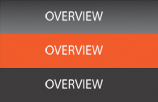
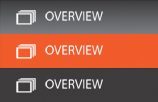
various style changes to below tabs

Changed region(s): [[0.1013, 0.0882, 0.2278, 0.2647], [0.1013, 0.4118, 0.2278, 0.5882], [0.1013, 0.7647, 0.2278, 0.9118]]

diff --git a/css/default.css b/css/default.css
@@ -41,6 +41,7 @@ font-size:1.1em;
 	box-shadow: 0px 2px 8px #17181c;
 	-moz-box-shadow: 0px 2px 8px #17181c;
 	-webkit-box-shadow: 0px 2px 8px #17181c;
+	
 
 }
 .toc_thumb a{}
@@ -118,11 +119,11 @@ color:#f5f2f2;
 }
 #info_tabs #tabs a.lastTab{
 background-repeat:repeat-x; 
--webkit-border-topright-radius:5px;-moz-border-radius-topright:5px;border-top-right-radius:5px;
+/*-webkit-border-topright-radius:5px;-moz-border-radius-topright:5px;border-top-right-radius:5px;*/
 }
 #info_tabs #tabs a.firstTab{
 background-repeat:repeat-x; background-color:#f15a29;
--webkit-border-topleft-radius:5px;-moz-border-radius-topleft:5px;border-top-left-radius:5px;
+/*-webkit-border-topleft-radius:5px;-moz-border-radius-topleft:5px;border-top-left-radius:5px;*/
 }
 #info_tabs #tabs a.active{background-position:0 -34px;background-color:#f15a29;border-left:1px solid #f15a29;border-right:1px solid #f15a29; }
 #info_tabs .info{overflow:auto;display:none;background:#fff;position:relative;height:520px;}
@@ -183,27 +184,34 @@ height:31px;
 width:640px;
 margin-left:auto;margin-right:auto;
 text-align:right;
--webkit-border-bottomright-radius:5px;-moz-border-radius-bottomright:5px;border-bottom-right-radius:5px;
--webkit-border-bottomleft-radius:5px;-moz-border-radius-bottomleft:5px;border-bottom-left-radius:5px;
+/*-webkit-border-bottomright-radius:5px;-moz-border-radius-bottomright:5px;border-bottom-right-radius:5px;
+-webkit-border-bottomleft-radius:5px;-moz-border-radius-bottomleft:5px;border-bottom-left-radius:5px;*/
 }
 #tabs_control_toggle_btn{
+font-family:Arial;
+font-size:10pt;
+vertical-align:top;
+
+color:#ffffff;
+text-align:left;
 cursor:pointer;
-width:208px;
+width:244px;
 height:13px;
 float:right;
 margin-right:40px;
 margin-top:10px;
   background-repeat: no-repeat;
-  background-position:0 0;
-  background-image: url('../img/show_features.png');
+  background-position:220px -13px;
+  background-image: url('../img/toggle_features_arrow_down.png');
 }
 #tabs_control_toggle_btn:hover{
-background-position:0 -13px;
+background-position:220px 0px;
+color:#c5c6c6;
 }
 .show_features{
 }
 .hide_features{
-  background-image: url('../img/hide_features.png') !important;
+  background-image: url('../img/toggle_features_arrow_up.png') !important;
 }
 /**************************************************************/
 
@@ -230,29 +238,37 @@ div.notes_details{
 button.llc-button-s{
 outline:0;
 width:100px;
-color:#fff;
-font-family:Arial;
-font-size:9pt;
-font-weight:600;
-letter-spacing:1px;
-border:1px solid fff;
-background-color:#cccccc;
--webkit-border-radius:8px;-moz-border-radius:8px;border-radius:8px;
 background:-webkit-gradient(linear, left bottom, left top, color-stop(0, #686868), color-stop(1, #C9C9C9));
 background:-ms-linear-gradient(bottom, #686868, #C9C9C9);
 background:-moz-linear-gradient(center bottom, #686868 0%, #C9C9C9 100%);
 padding:6px 6px 6px 6px;
 cursor:pointer;
-text-shadow:0px 1px 1px #000000;
+text-shadow:0px 1px 1px #ffffff;
 float:right;
+
+    font-size: 12px;
+    font-weight: bold;
+    padding: 6px 8px;
+	color:#000000;
+	font-weight:600;
+	letter-spacing:1px;
+	
+    background: url("../img/button-bg.png") repeat-x scroll left bottom transparent;
+    border: 1px solid #999999;
+    -webkit-border-radius:8px;-moz-border-radius:8px;border-radius:8px;
+    color: inherit;
+    font-family: Arial,Helvetica,Calibri,sans-serif;
+    margin: 0;
+	
 }
+
 button.llc-button-s:hover{
 outline:0;
 border:1px solid #a0a3a4;
 }
 button.llc-button-s:active{
 outline:0;
-text-shadow:0px -1px 1px #000000;
+padding:7px 6px 5px 6px;
 }
 .playIcon{
   background-color:transparent;

diff --git a/js/llc-player.js b/js/llc-player.js
@@ -183,10 +183,11 @@ var llc = {
 							$('div#tabs_overview').toggleClass('active');
 							$('div#tabs_overview').animate({ opacity: 1 }, 1000);
 							}
-							
+							$('#tabs_control_toggle_btn').html('HIDE PRESENTATION FEATURES');
 						
 				}else{
 				   $('#tabs').find('a.active').toggleClass('active');
+					$('#tabs_control_toggle_btn').html('SHOW PRESENTATION FEATURES');
 				}
 	
 			}
@@ -208,6 +209,7 @@ var llc = {
 				if(curdisplay=='none'){
 				$("#content_area").slideToggle();
 				$('#tabs_control_toggle_btn').toggleClass('hide_features');
+				$('#tabs_control_toggle_btn').html('HIDE PRESENTATION FEATURES');
 				}else{
 				}
 				

diff --git a/index.html b/index.html
@@ -74,7 +74,7 @@
 			</div>
 			<div id="tabs_transcripts" class="info"></div>
 		</div>
-		<div id="tabs_control"><div class="show_features" id="tabs_control_toggle_btn"></div></div>
+		<div id="tabs_control"><div class="show_features" id="tabs_control_toggle_btn">SHOW PRESENTATION FEATURES</div></div>
 	</div>
 	
 	<div id="loading"></div>
